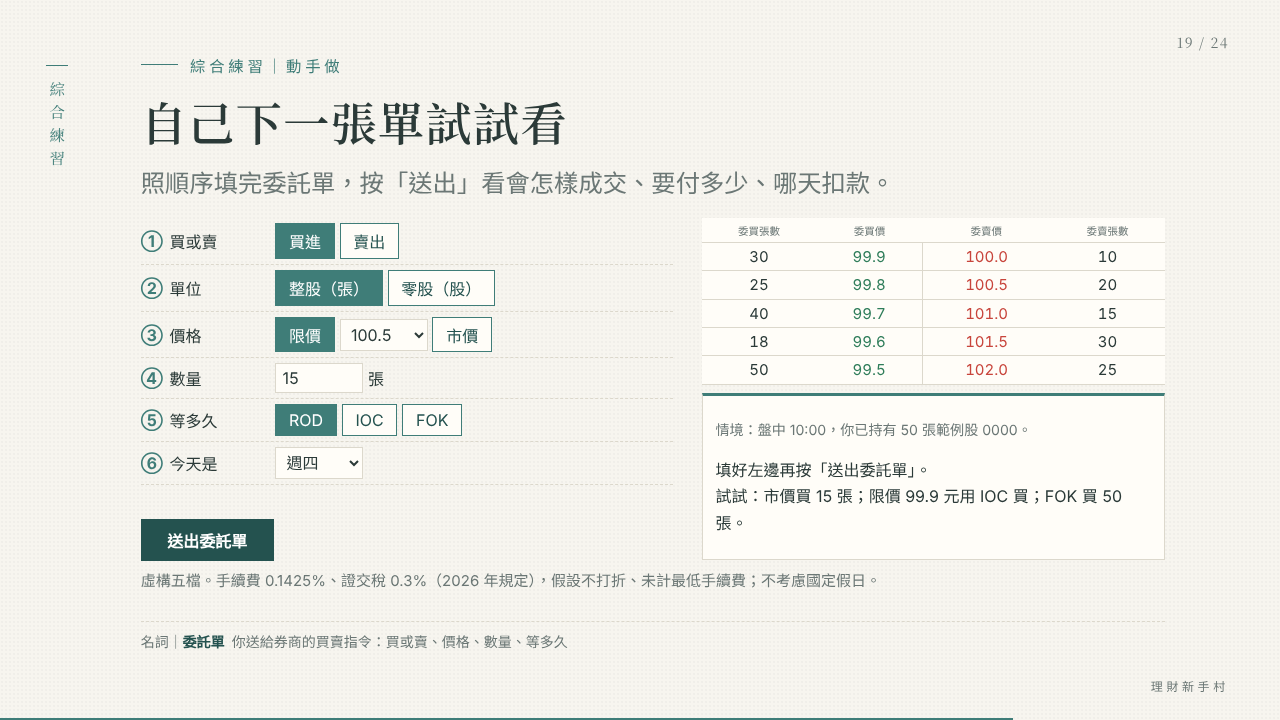
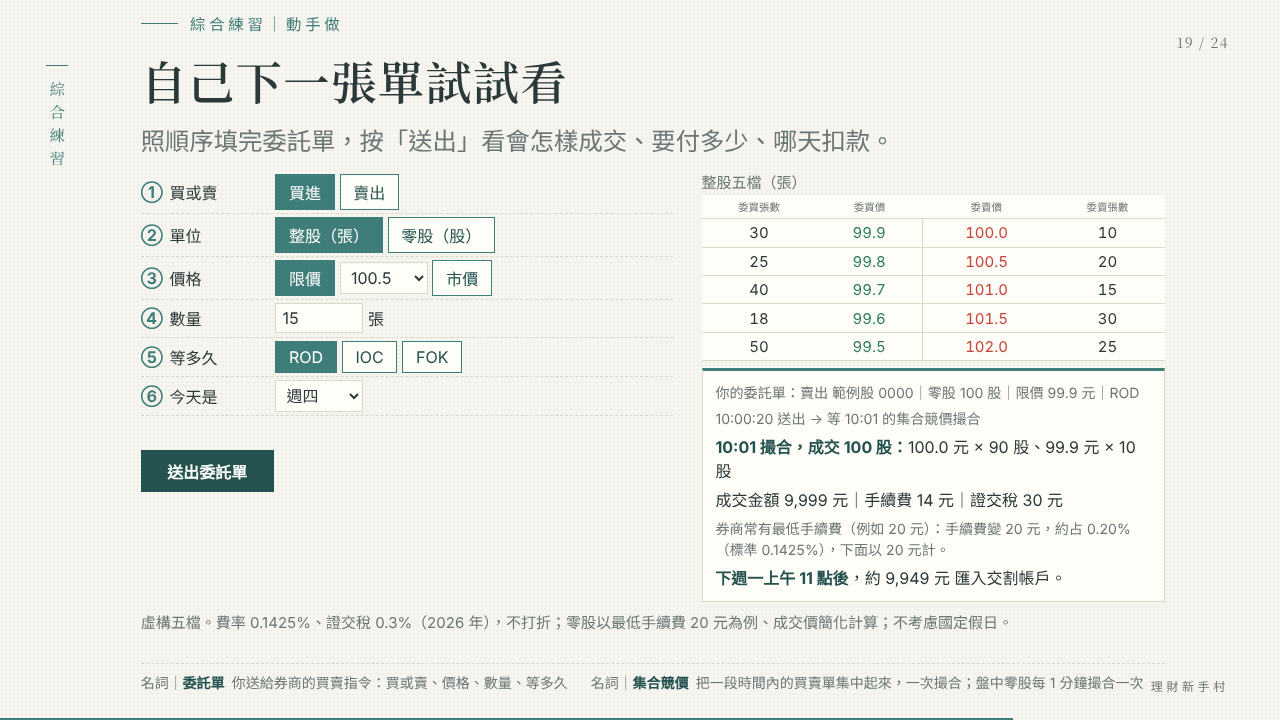
Add files via upload

diff --git a/runs/2026-11-22-invest-order-and-quotes.md b/runs/2026-11-22-invest-order-and-quotes.md
@@ -119,6 +119,11 @@
 | 2026-11-23 | G3 | 6 | 通過 | — | — |
 | 2026-11-23 | G4 | 8 | 通過 | — | 大盤拆成「是什麼」「會影響我什麼」兩頁；新增第 19 頁模擬下單；共 24 頁，小測驗頁碼更新 |
 | 2026-11-23 | G5 | 8 | 通過（佔位符除外） | 模擬器實測 8 種情況，發現：限價 99.9 元 IOC 一張都沒成交時寫成「剩下 10 張取消」；想賣 60 張時錯誤訊息說「數量要 1～50」而不是「你只有 50 張」 | 改寫兩個訊息後重測通過；無 JS 錯誤；24 頁桌機＋手機截圖重新產生 |
+| 2026-11-23 11:16 | N6（人類審閱） | 5 | 不通過 | 模擬下單有零股選項但選了不能用；新手本錢少更可能先買零股 | 回 N3 補零股成交方式 |
+| 2026-11-23 | N3 修訂 | — | 完成 | — | 整股與零股頁新增「盤中零股怎麼成交」（集合競價、每 1 分鐘、不留到盤後、最低手續費）；名詞小辭典新增「集合競價」；筆記補零股段落 |
+| 2026-11-23 | G2／G3／G4 | 10／7／9 | 通過 | — | 第 19 頁術語欄自動加上「集合競價」 |
+| 2026-11-23 | G5 | 9 | 不通過（人工看截圖） | 零股送出後結果較長，畫面上方標題和下方名詞小卡被切掉；自動檢查卻通過：投影片置中排版，往上超出不會算進 scrollHeight，而且只檢查剛打開的狀態 | 縮小模擬器間距；溢出檢查改量元素上下邊界，並自動操作一次「零股賣出＋最低手續費」再量；用故意加長的結果測試，新檢查抓得到 |
+| 2026-11-23 | G5 | 10 | 通過 | 模擬器實測 8 種情況（含零股買、零股不成交、零股部分成交、零股賣出、超過持股），無 JS 錯誤 | 24 頁截圖重新產生 |
 
 ## Loop 紀錄
 
@@ -132,12 +137,14 @@
 - **Loop 4**（2026-11-23，第 4 次人類審閱）：N6 → N0（小修）→ N1。原因：畫面文字提到不存在的「成交價」；人類要求模擬下單與大盤影響。
   - 結果：目標 4、5 加深 → 第 4 輪補 4 份來源 → 大盤拆兩頁、新增模擬下單（共 24 頁）；G5 新增「文字提到的東西，畫面上要看得到」。
 
+- **Loop 5**（2026-11-23，第 5 次人類審閱）：N6 → N3。原因：零股選項不能用。結果：模擬器支援零股（自己的五檔、集合競價、最低手續費）；G5 改成檢查互動後的版面。
+
 ## 反思
 
 ### 哪個節點最容易出錯
 
 1. **N2 擷取**：官方網站（證交所、櫃買中心）會擋自動抓取，Loop 1 時 12 份來源有 7 份抓不到，只能請人類剪存或貼上。這是最「技術性」的錯誤來源。
-2. **N6 人類審閱**：5 次審閱有 4 次不通過，而且每次都發生在自動檢查全部通過之後。問題都不是「資料錯」，而是「新手看不懂、學不到」：內容太淺、「黑K」說法混亂、術語沒解釋、大盤跟自己的關係沒講、畫面文字提到不存在的成交價。
+2. **N6 人類審閱**：6 次審閱有 5 次不通過，而且每次都發生在自動檢查全部通過之後。問題都不是「資料錯」，而是「新手看不懂、學不到」：內容太淺、「黑K」說法混亂、術語沒解釋、大盤跟自己的關係沒講、畫面文字提到不存在的成交價、零股選項選了不能用。
 3. **檢查腳本本身**：G2 漏抓概念頁的 B 級數字、G5 只檢查檔案沒實際打開（JS 錯誤導致整份簡報不能翻頁）、模擬器的兩個錯誤訊息，都是後來才補上的檢查。
 
 結論：AI 最容易出錯的不是查資料，而是判斷「讀者看不看得懂」。
@@ -151,6 +158,7 @@
 | 術語有沒有解釋 | N6 人類發現 | G4 自動比對名詞小辭典 | 改完後檢查第一次跑就自己抓到 2 個漏解釋的術語 |
 | 簡報能不能正常操作 | N6 人類點開才發現 | G5 用瀏覽器實際執行＋截圖 | 抓到 JS 錯誤、版面重疊、題目超出畫面 |
 | 畫面文字和畫面一致 | N6 人類發現 | G5 逐張看截圖 | 新增的檢查項 |
+| 互動後的版面與每個選項能不能用 | N6 人類發現 | G5 自動操作模擬器再量版面 | 抓到原本檢查方法的盲點（置中排版往上超出量不到） |
 
 ### 流程因此怎麼改
 

diff --git a/runs/submission.md b/runs/submission.md
@@ -33,10 +33,10 @@ https://lai27330.github.io/finance-beginner-wiki/decks/2026-11-22-invest-order-a
 
 https://github.com/Lai27330/finance-beginner-wiki/blob/main/runs/2026-11-22-invest-order-and-quotes.md
 
-共 70 筆節點與關卡紀錄、4 個 Loop、5 次人類審閱；簡報每頁桌機與手機截圖在 `runs/screens/`。
+共 75 筆節點與關卡紀錄、5 個 Loop、6 次人類審閱；簡報每頁桌機與手機截圖在 `runs/screens/`。
 
 ## 6. 反思
 
-- **最容易出錯的節點**：N2 擷取（官方網站擋自動抓取，Loop 1 時 12 份有 7 份抓不到，要人類剪存）；以及 N6 人類審閱，5 次有 4 次不通過，而且都發生在自動檢查全過之後，問題都是「新手看不懂、學不到」（內容太淺、術語沒解釋、大盤跟自己的關係沒講、畫面文字提到不存在的成交價）。
-- **被移到前面的檢查**：網頁試讀從 N2 移到 G1；學習深度從 N6 移到 G0、G3；術語解釋從人類發現改成 G4 自動比對名詞小辭典；簡報能不能操作從人類點開改成 G5 用瀏覽器實際執行並截圖。
-- **流程因此怎麼改**：從單向流程改成兩個 loop；寫明「自動檢查通過不等於通過」；能自動化的檢查都寫成腳本，並用故意放錯的測試確認抓得到；每次修改都記在 AGENTS.md 的修改紀錄（共 8 次），寫明原因。
+- **最容易出錯的節點**：N2 擷取（官方網站擋自動抓取，Loop 1 時 12 份有 7 份抓不到，要人類剪存）；以及 N6 人類審閱，6 次有 5 次不通過，而且都發生在自動檢查全過之後，問題都是「新手看不懂、學不到」（內容太淺、術語沒解釋、大盤跟自己的關係沒講、畫面文字提到不存在的成交價、零股選項不能用）。
+- **被移到前面的檢查**：網頁試讀從 N2 移到 G1；學習深度從 N6 移到 G0、G3；術語解釋從人類發現改成 G4 自動比對名詞小辭典；簡報能不能操作從人類點開改成 G5 用瀏覽器實際執行並截圖，後來再加上自動操作模擬器、檢查互動後的版面。
+- **流程因此怎麼改**：從單向流程改成兩個 loop；寫明「自動檢查通過不等於通過」；能自動化的檢查都寫成腳本，並用故意放錯的測試確認抓得到；每次修改都記在 AGENTS.md 的修改紀錄（共 9 次），寫明原因。
